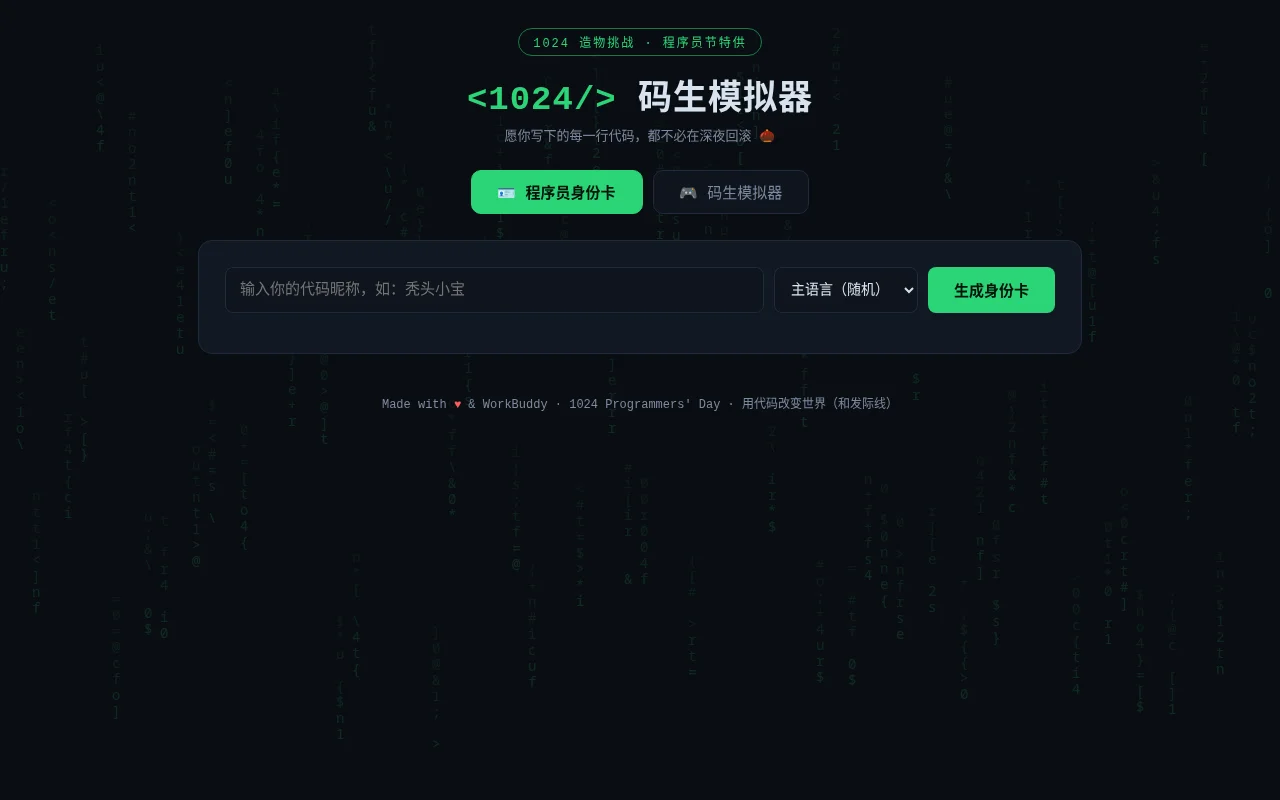
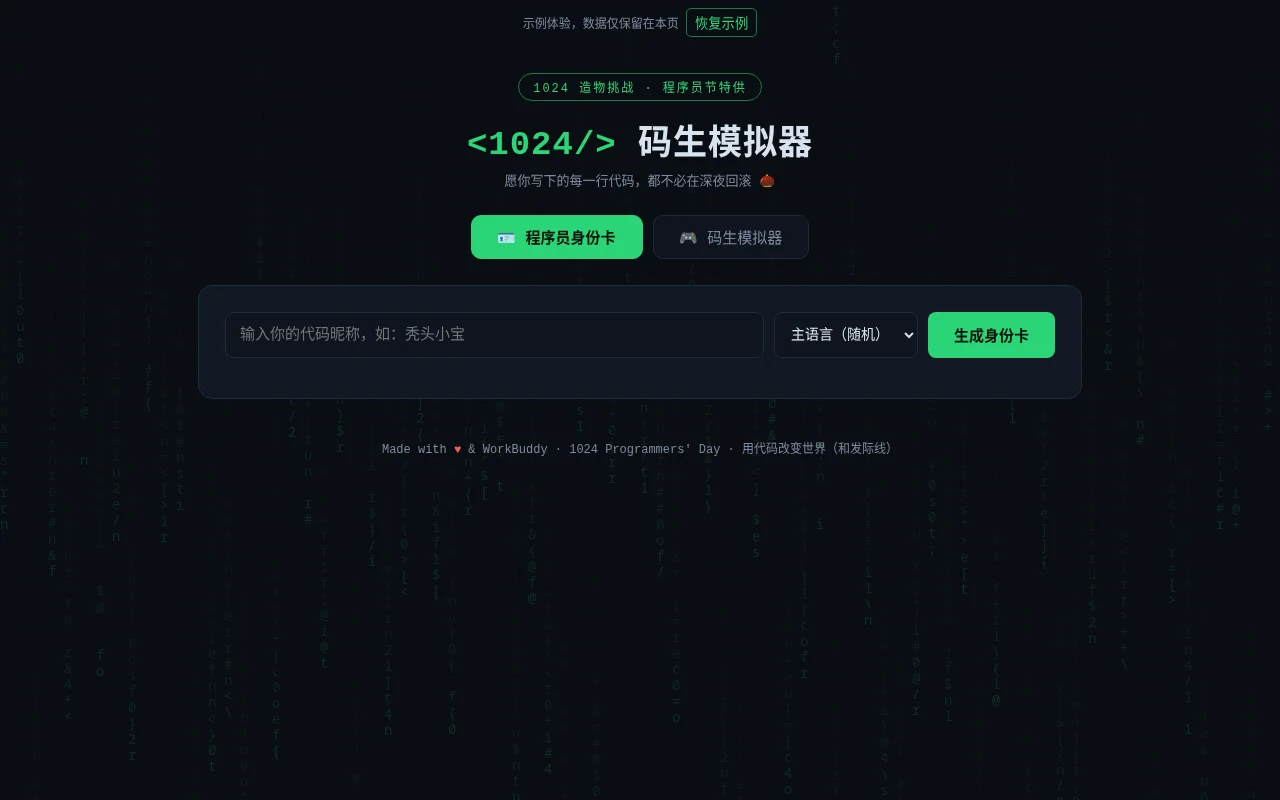
Add 1024 code life template

diff --git a/wb-code-life/showcase/preview.html b/wb-code-life/showcase/preview.html
@@ -86,7 +86,7 @@
   footer{text-align:center;color:var(--dim);font-size:12px;margin-top:40px}
   footer .heart{color:var(--red)}
   @media(max-width:600px){h1{font-size:26px}.tabs{flex-direction:column;align-items:center}}
-</style></head><body><canvas id="rain" width="1440" height="900"></canvas>
+</style></head><body><div style="position:relative;z-index:2;text-align:center;padding:8px;color:#7c8aa0;font:12px monospace">示例体验，数据仅保留在本页 <button id="preview-reset" style="color:#2bd576;background:transparent;border:1px solid #1a7a47;border-radius:5px;padding:4px 8px;cursor:pointer">恢复示例</button></div><canvas id="rain" width="1440" height="900"></canvas>
 <div class="wrap">
   <header>
     <span class="tag">1024 造物挑战 · 程序员节特供</span>
@@ -290,4 +290,4 @@ function endSim(){
   $('endcard').style.display='block';
   $('endcard').scrollIntoView({behavior:'smooth',block:'nearest'});
 }
-document.getElementById("generate-card").addEventListener("click",genCard);document.querySelectorAll("[data-start-sim]").forEach(b=>b.addEventListener("click",startSim));</script></body></html>
+document.getElementById("preview-reset").addEventListener("click",()=>{document.getElementById("nickname").value="";document.getElementById("lang").value="";document.getElementById("idcard").style.display="none";document.getElementById("sim-start").style.display="block";document.getElementById("sim-play").style.display="none";document.querySelectorAll(".tab").forEach((t,i)=>t.classList.toggle("active",i===0));document.querySelectorAll(".panel").forEach((p,i)=>p.classList.toggle("show",i===0));});document.getElementById("generate-card").addEventListener("click",genCard);document.querySelectorAll("[data-start-sim]").forEach(b=>b.addEventListener("click",startSim));</script></body></html>
